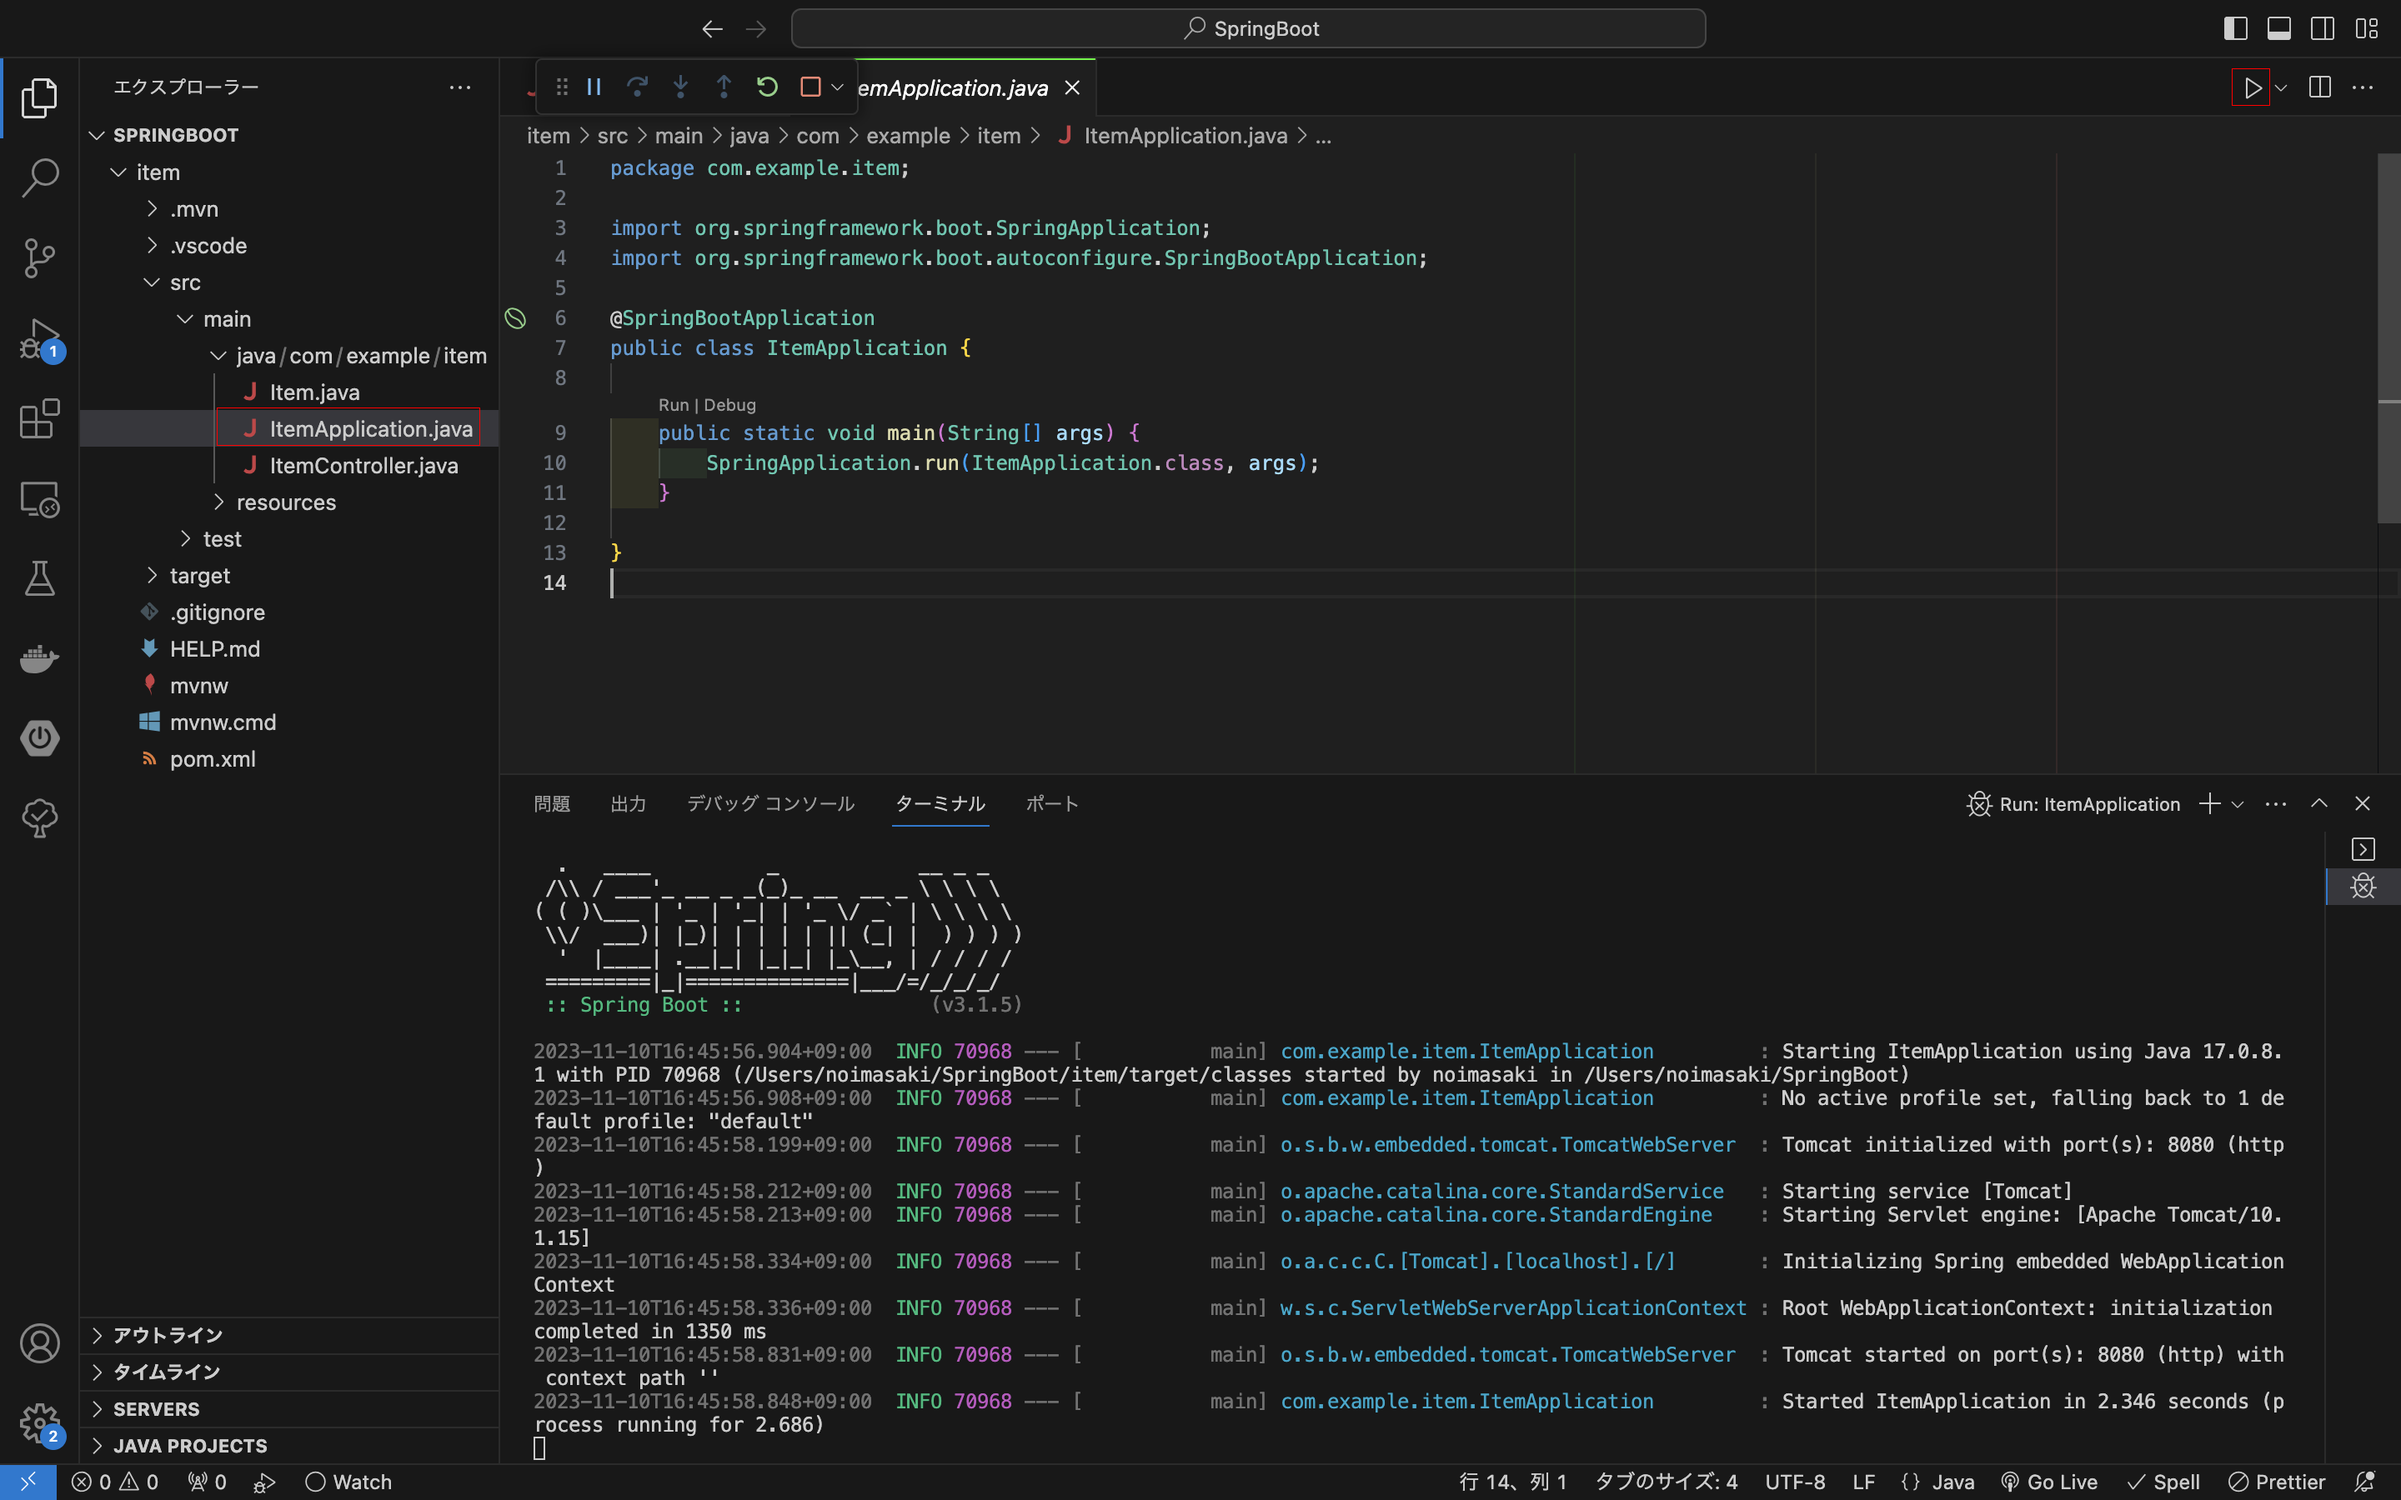
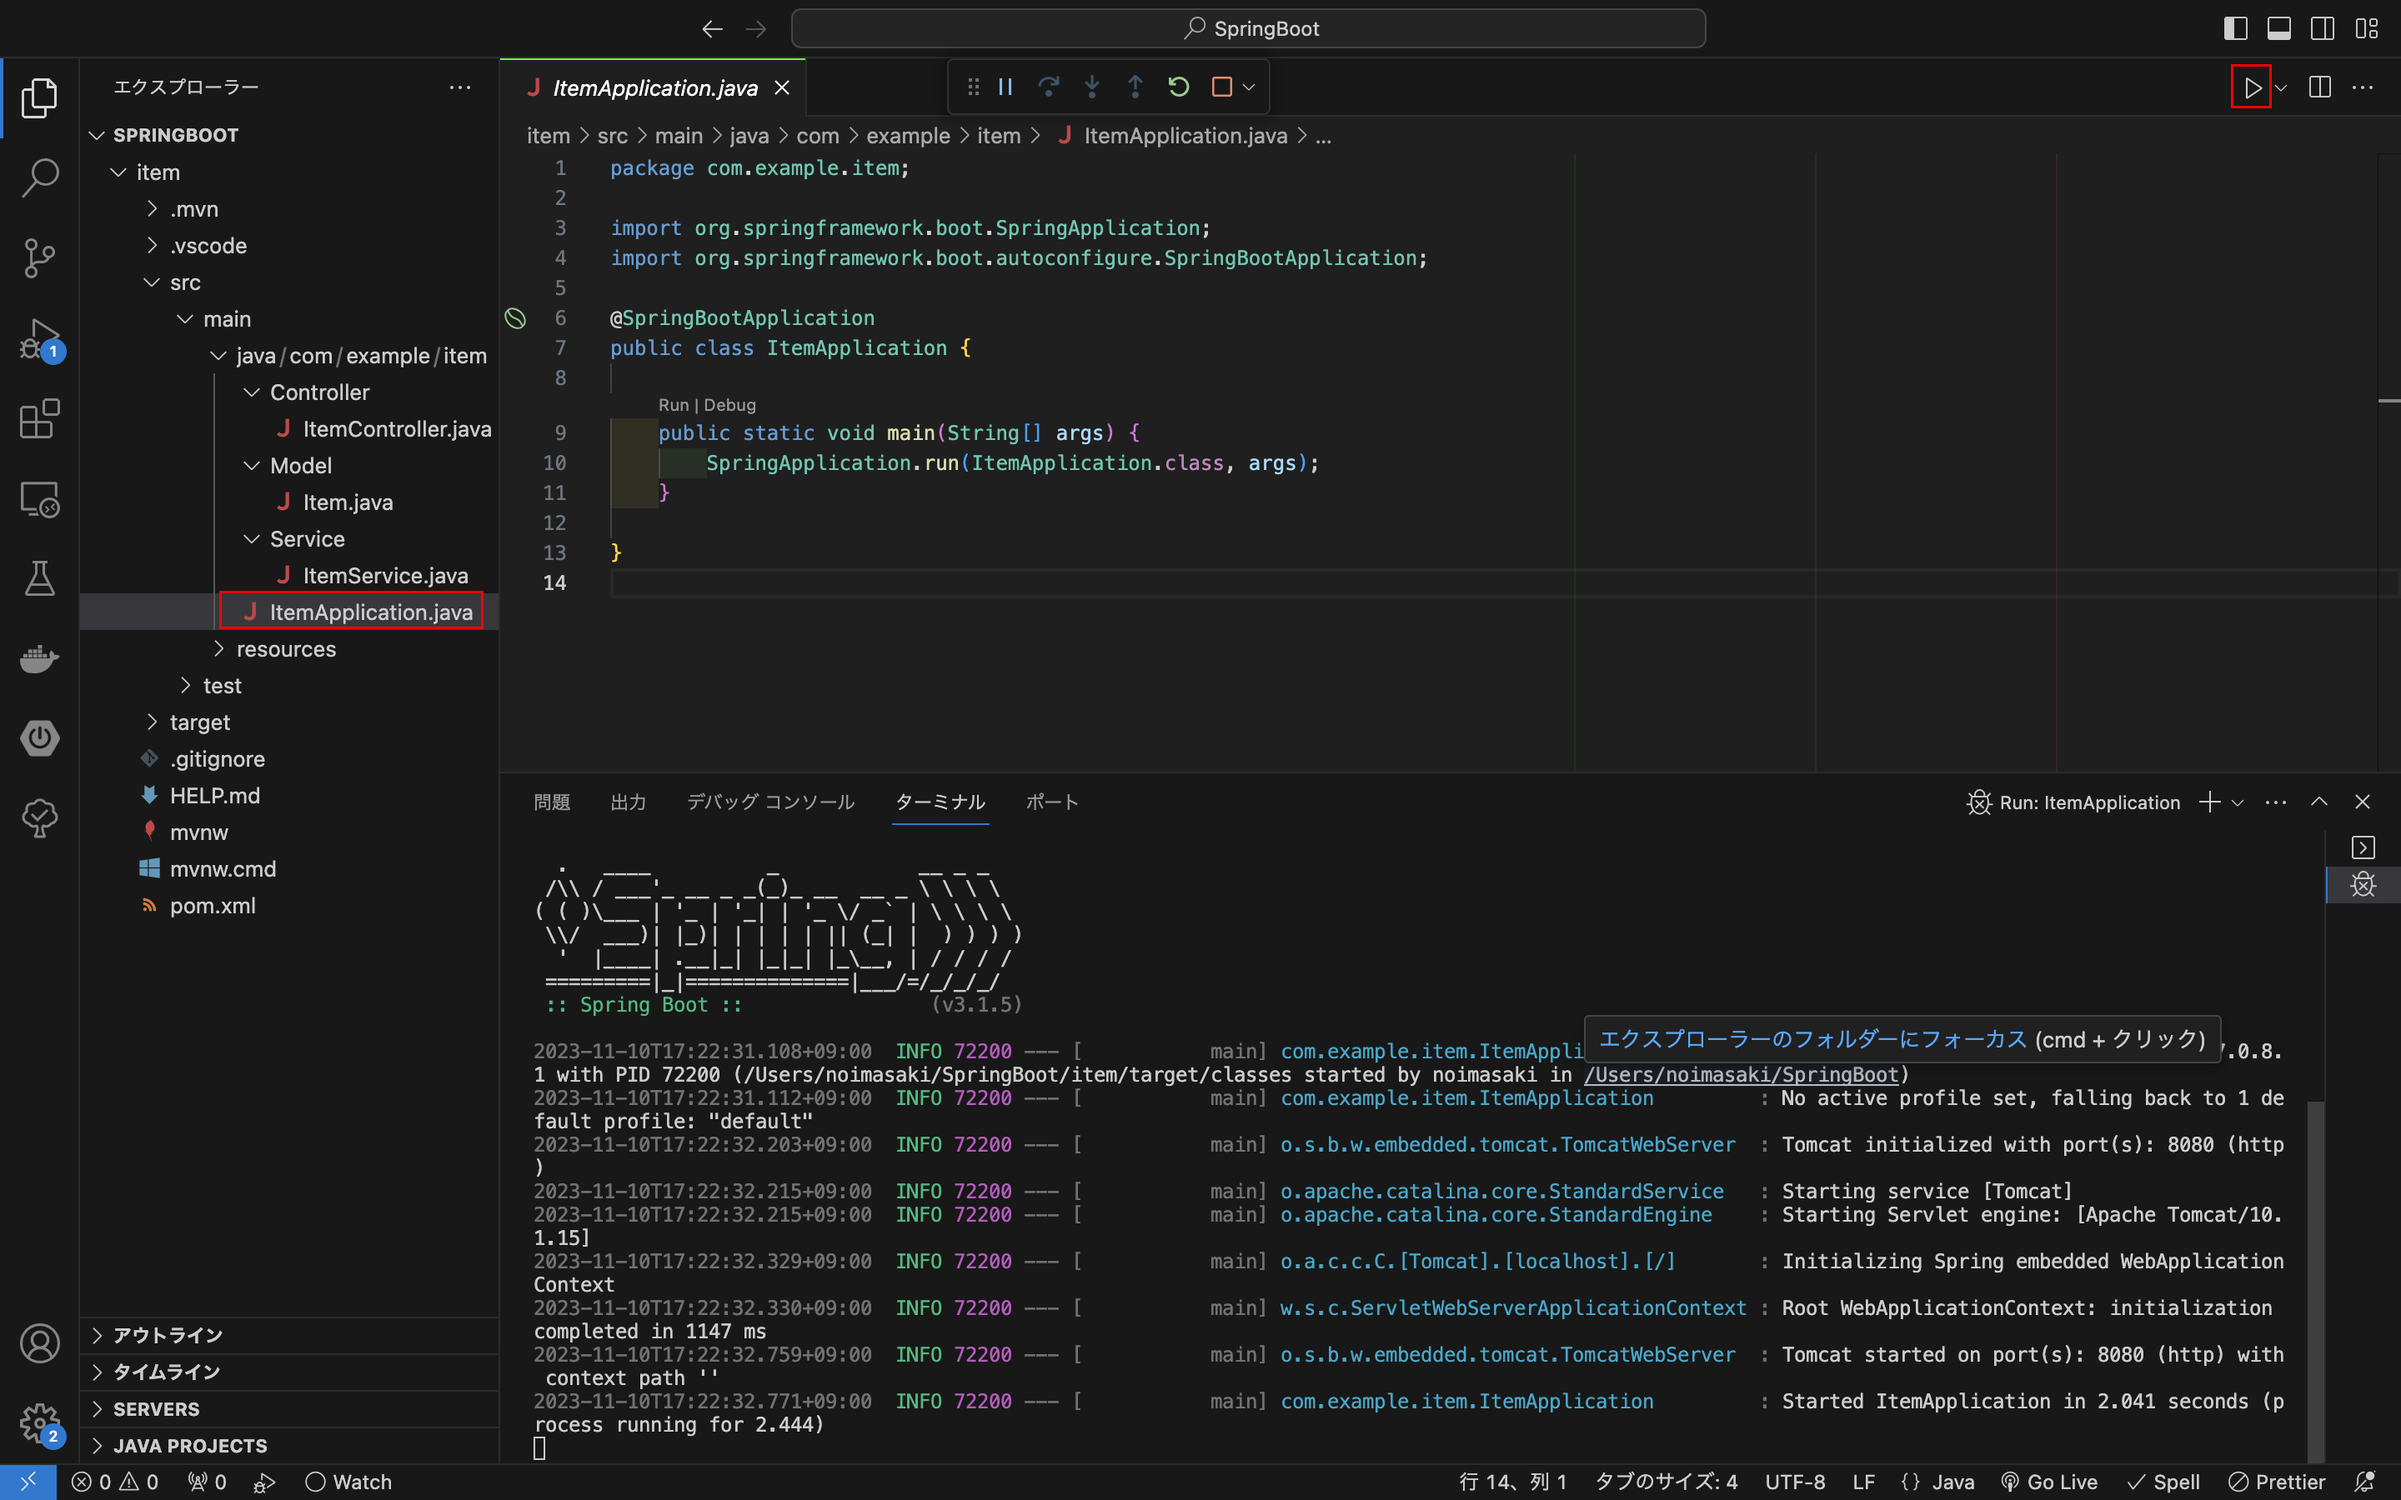
add

diff --git a/source/SpringBoot_REST_API.md b/source/SpringBoot_REST_API.md
@@ -54,7 +54,7 @@ item           // Spring Boot プロジェクディレクトリ
 
 Item.java
 ```
-package com.example.item;
+package com.example.item.Model;
 
 public class Item {
     private String itemId;          //商品ID
@@ -89,30 +89,77 @@ public class Item {
 }
 ```
 
-### 1-3. コントローラ作成
-1. ItemController.javaを作成
+### 1-3. サービス作成
+1. コントローラから呼ばれるビジネスロジックであるItemService.javaを作成
 ```
-package com.example.item;
+package com.example.item.Service;
 
 import java.util.Arrays;
 import java.util.List;
 
-import org.springframework.web.bind.annotation.GetMapping;
-import org.springframework.web.bind.annotation.RestController;
+import org.springframework.stereotype.Service;
 
-@RestController
-public class ItemController {
-    
-    @GetMapping("/items")
-    public List<Item> getAllItems() {
-        List<Item> allItems = Arrays.asList(
+import com.example.item.Model.Item;
+
+@Service
+public class ItemService {
+        private List<Item> allItems = Arrays.asList(
             new Item("10001", "ネックレス", "ジュエリ"),
             new Item("10002", "パーカー", "ファッション"),
             new Item("10003", "フェイスクリーム", "ビューティ"),
             new Item("10004", "サプリメント", "ヘルス"),
             new Item("10005", "ブルーベリー", "フード")
         );
-        return allItems;
+
+        // 全てのItemリストを返すメソッド
+        public List<Item> getAllItems() {
+            return allItems;
+        }
+
+        // 個別のItemを返すメソッド
+        public Item getItem(String itemId) {
+            for (int i=0; i<allItems.size(); i++){
+                if (allItems.get(i).getItemId().equals(itemId)) {
+                    return allItems.get(i);
+                }
+            }
+            return null;    // itemIdが見つからなかったらnullを返す
+        }
+}
+```
+
+### 1-4. コントローラ作成
+1. ItemController.javaを作成
+```
+package com.example.item.Controller;
+
+import java.util.List;
+
+import org.springframework.beans.factory.annotation.Autowired;
+import org.springframework.web.bind.annotation.GetMapping;
+import org.springframework.web.bind.annotation.PathVariable;
+import org.springframework.web.bind.annotation.RestController;
+
+import com.example.item.Model.Item;
+import com.example.item.Service.ItemService;
+
+@RestController
+public class ItemController {
+    
+    // @Autowiredでインスタンス化は自動化
+    @Autowired
+    private ItemService itemService;
+
+    // @GetMappingで"/items"へアクセスしたときにgetAllItems()を実行
+    @GetMapping("/items")
+    public List<Item> getAllItems() {
+        return itemService.getAllItems();
+    }
+
+    // 全てのitemではなく、itemIdで個別の情報を返す
+    @GetMapping("/items/{id}")
+    public Item getItem(@PathVariable("id") String id){
+        return itemService.getItem(id);
     }
 }
 ```
@@ -126,9 +173,12 @@ public class ItemController {
 2. ブラウザで[http://localhost:8080/items](http://localhost:8080/items)にアクセスして、JSON形式で表示されればOK
 ![Run SpringBoot](_static/SpringBoot_REST_API/GET_1.png)
 
+3. 個別のitem情報も取得できるか確認[http://localhost:8080/items/10001](http://localhost:8080/items/10001)
+![Run SpringBoot](_static/SpringBoot_REST_API/GET_2.png)
+
 確認できたらSpringBootは停止する
 
-
+## 3. 
 
 ## データベース（MySQL）を利用する
 ![DatabBase](_static/SpringBoot_REST_API/DataBase.png)
